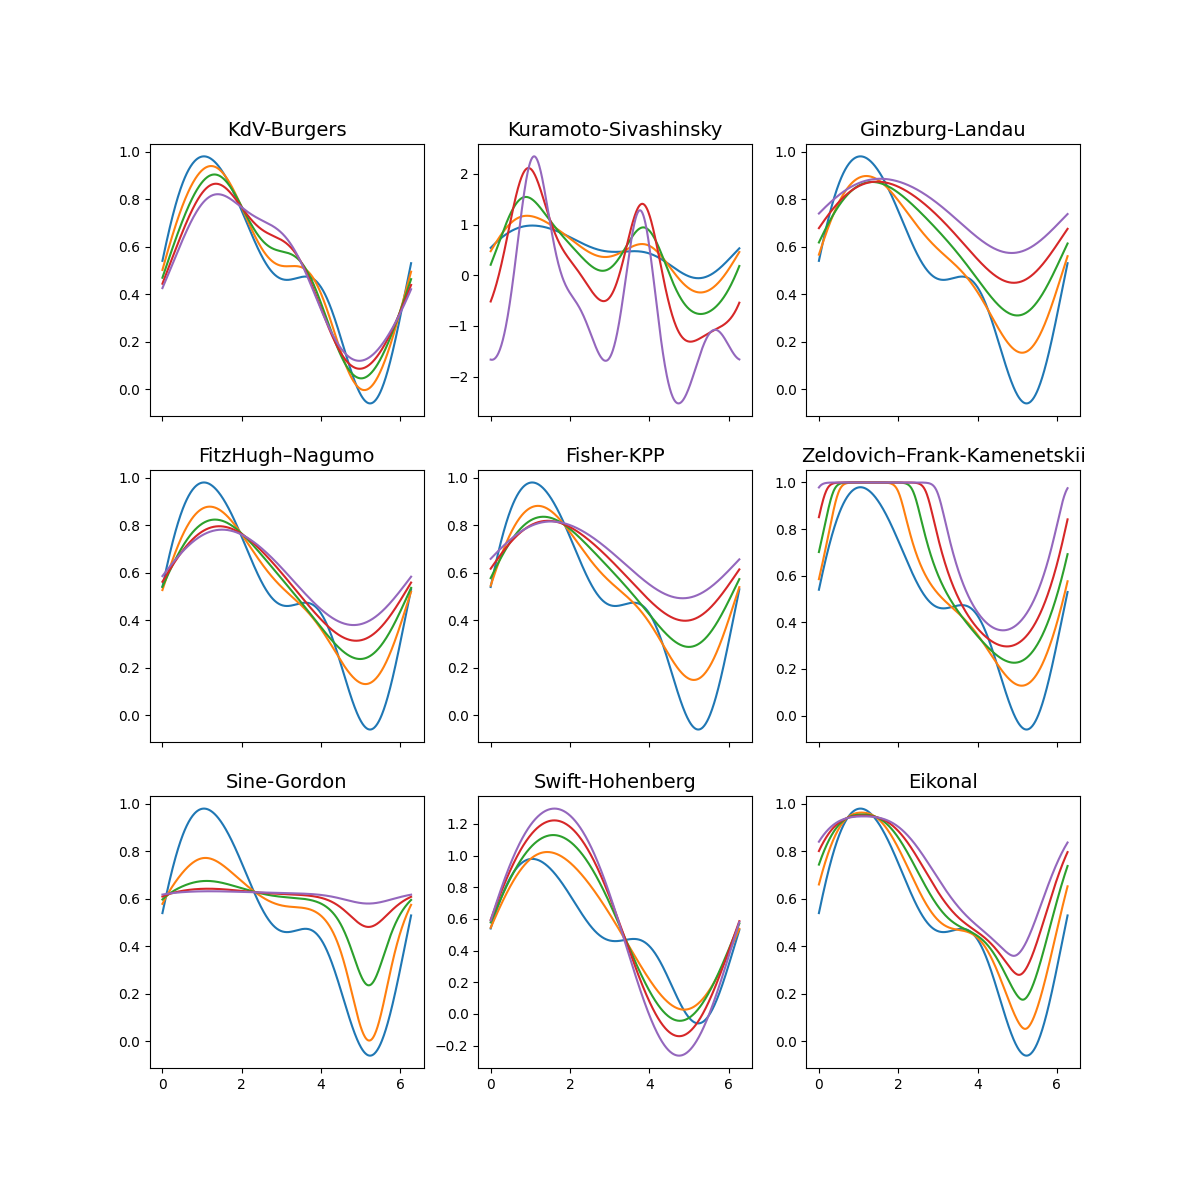
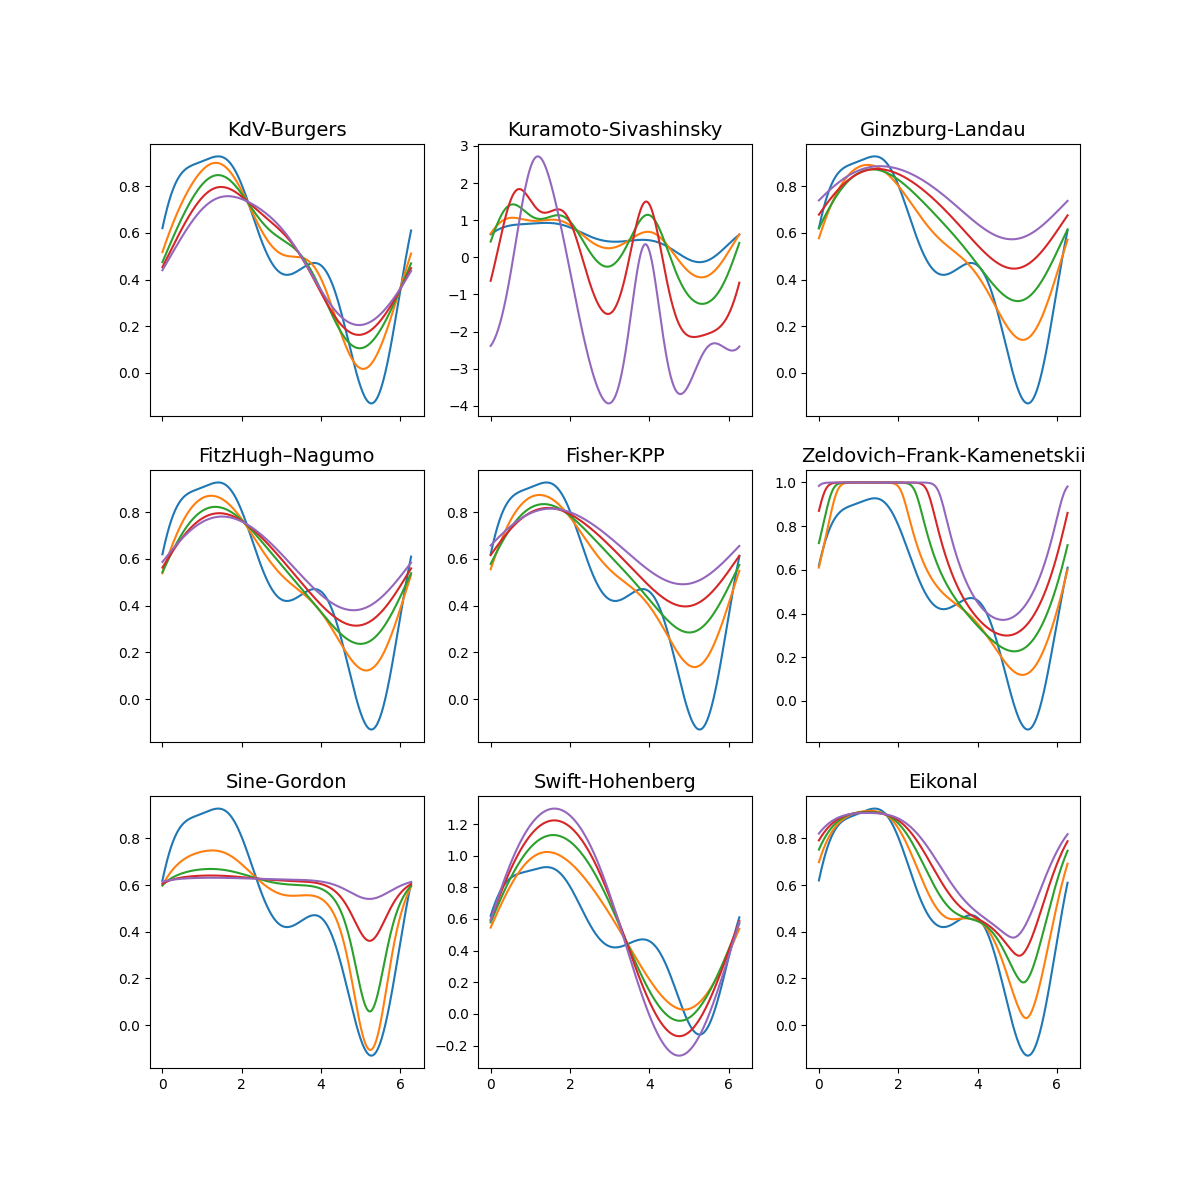
update examples

diff --git a/runtests.py b/runtests.py
@@ -12,7 +12,7 @@ Note that the x-axis is fixed as [0, 2 * pi], common initial condition.
 """
 # models
 models = {
-    'KdV-Burgers': EvolutionDiffEq('0.25 * D[D[u]] - u * D[u] - (1.0/6) * D[D[D[u]]]'),
+    'KdV-Burgers': EvolutionDiffEq('0.5 * D[D[u]] - u * D[u] - (1.0/6) * D[D[D[u]]]'),
     'Kuramoto-Sivashinsky': EvolutionDiffEq('- D[D[u]] - 0.05 * D[D[D[D[u]]]] - 0.5 * D[u] * D[u]'),
     'Ginzburg-Landau': EvolutionDiffEq('D[D[u]] - u*u*u + u'),
     'FitzHugh–Nagumo': EvolutionDiffEq('D[D[u]] + u * u  - u*u*u'),
@@ -27,7 +27,7 @@ models = {
 dt, T = 0.001, 1
 t_span = np.arange(dt, T + dt, dt)
 x_axis = np.linspace(0, 2 * np.pi, 513)[0:-1]
-y0 = 0.5 + 0.4 * np.sin(x_axis) + 0.2 * np.sin(2 * x_axis) + 0.04 * np.cos(3 * x_axis)
+y0 = 0.5 + 0.4 * np.sin(x_axis) + 0.2 * np.sin(2 * x_axis) + 0.1 * np.cos(3 * x_axis) + 0.02 * np.cos(4 * x_axis)
 
 # plots
 row = int(np.sqrt(len(models)))
